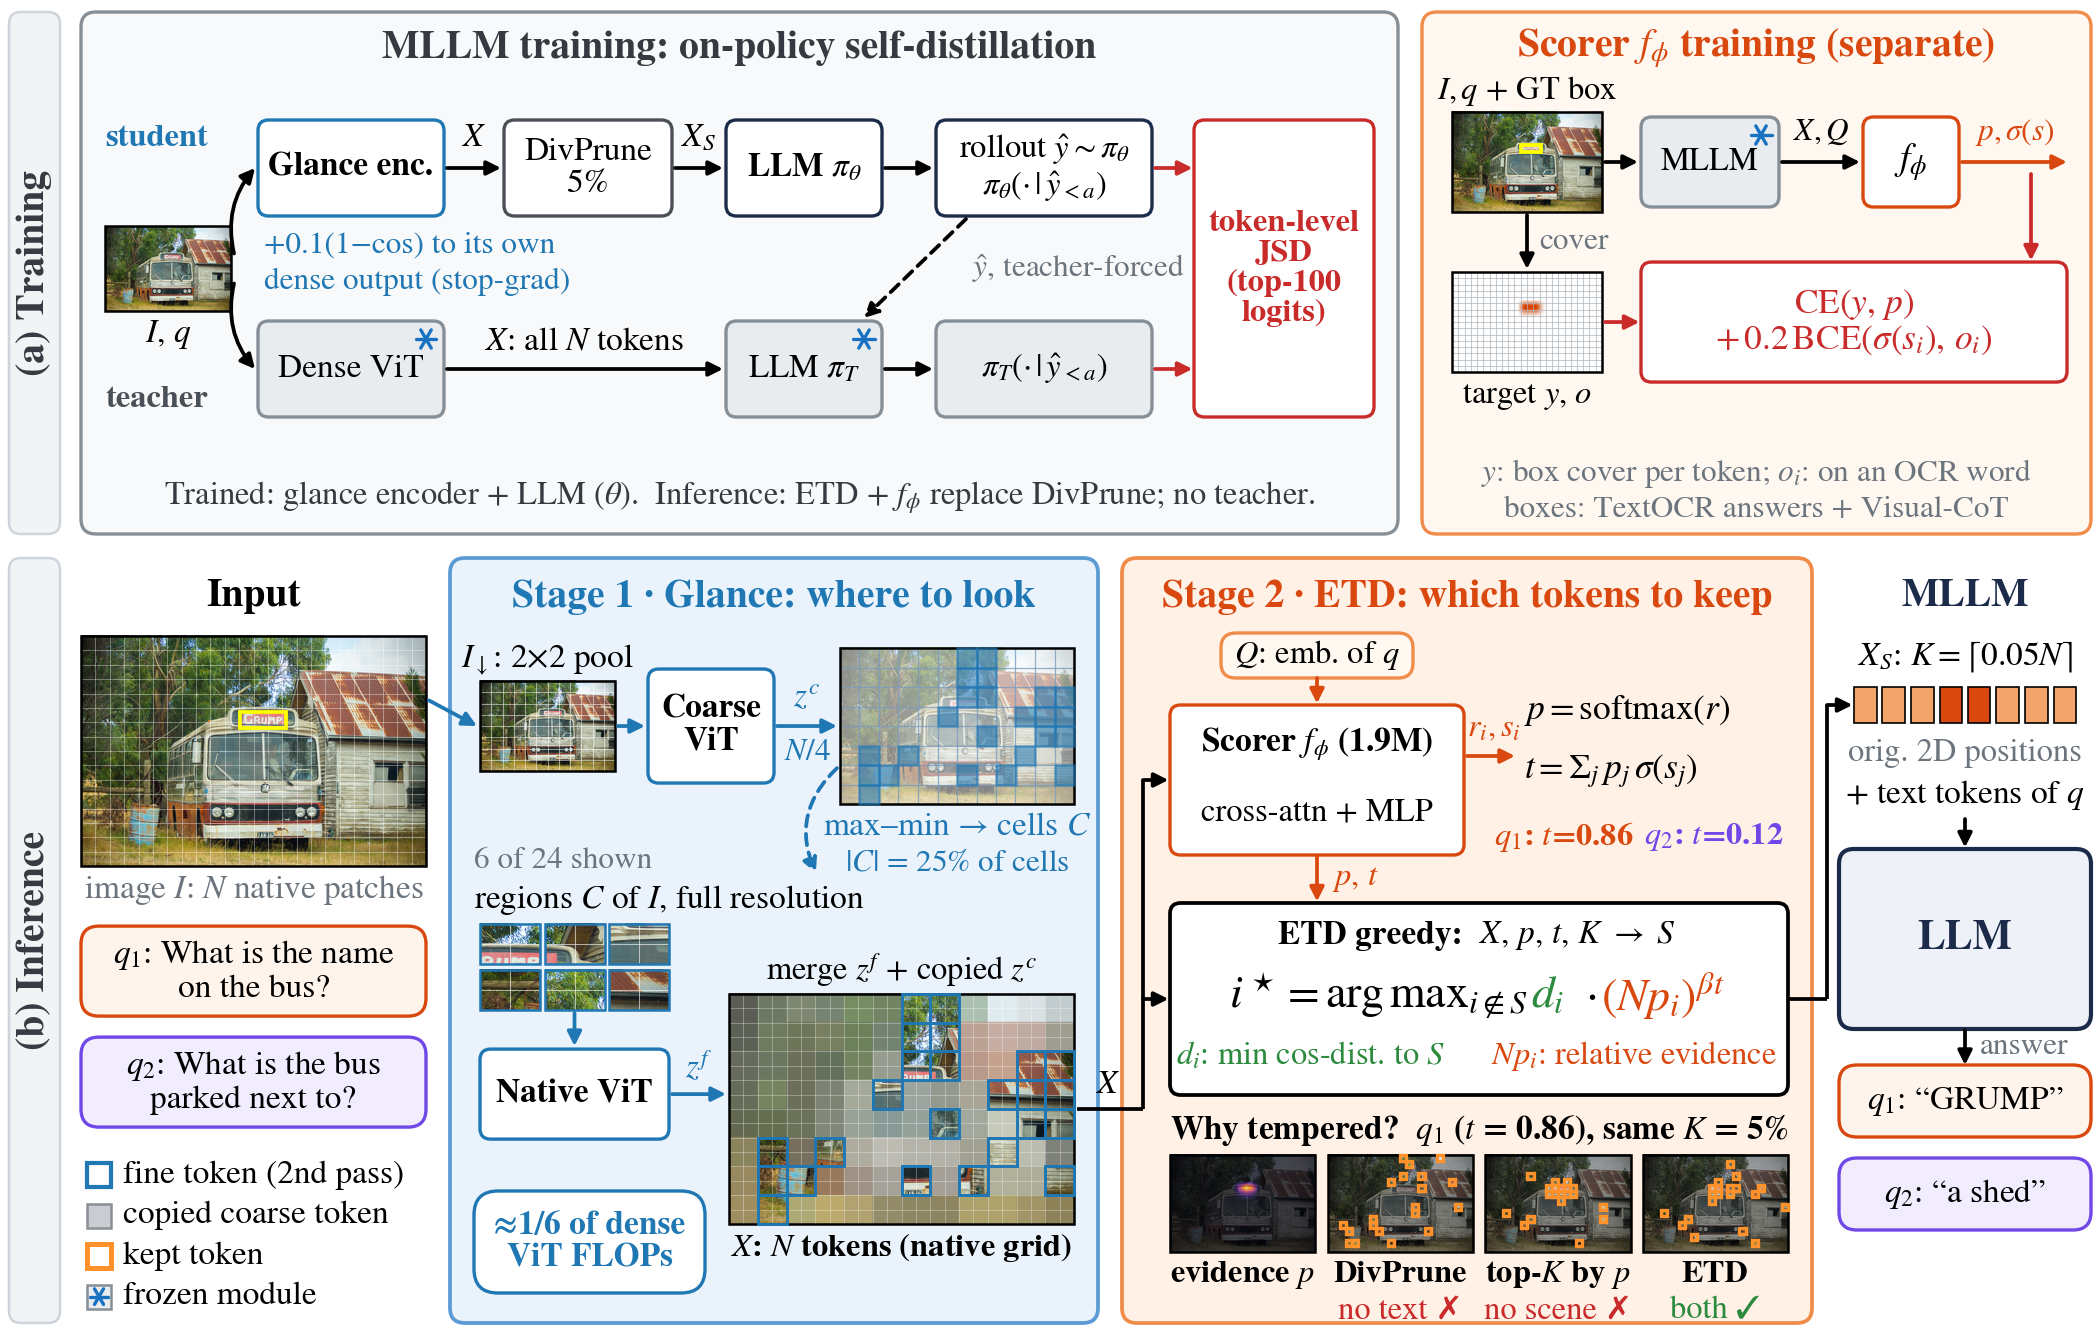
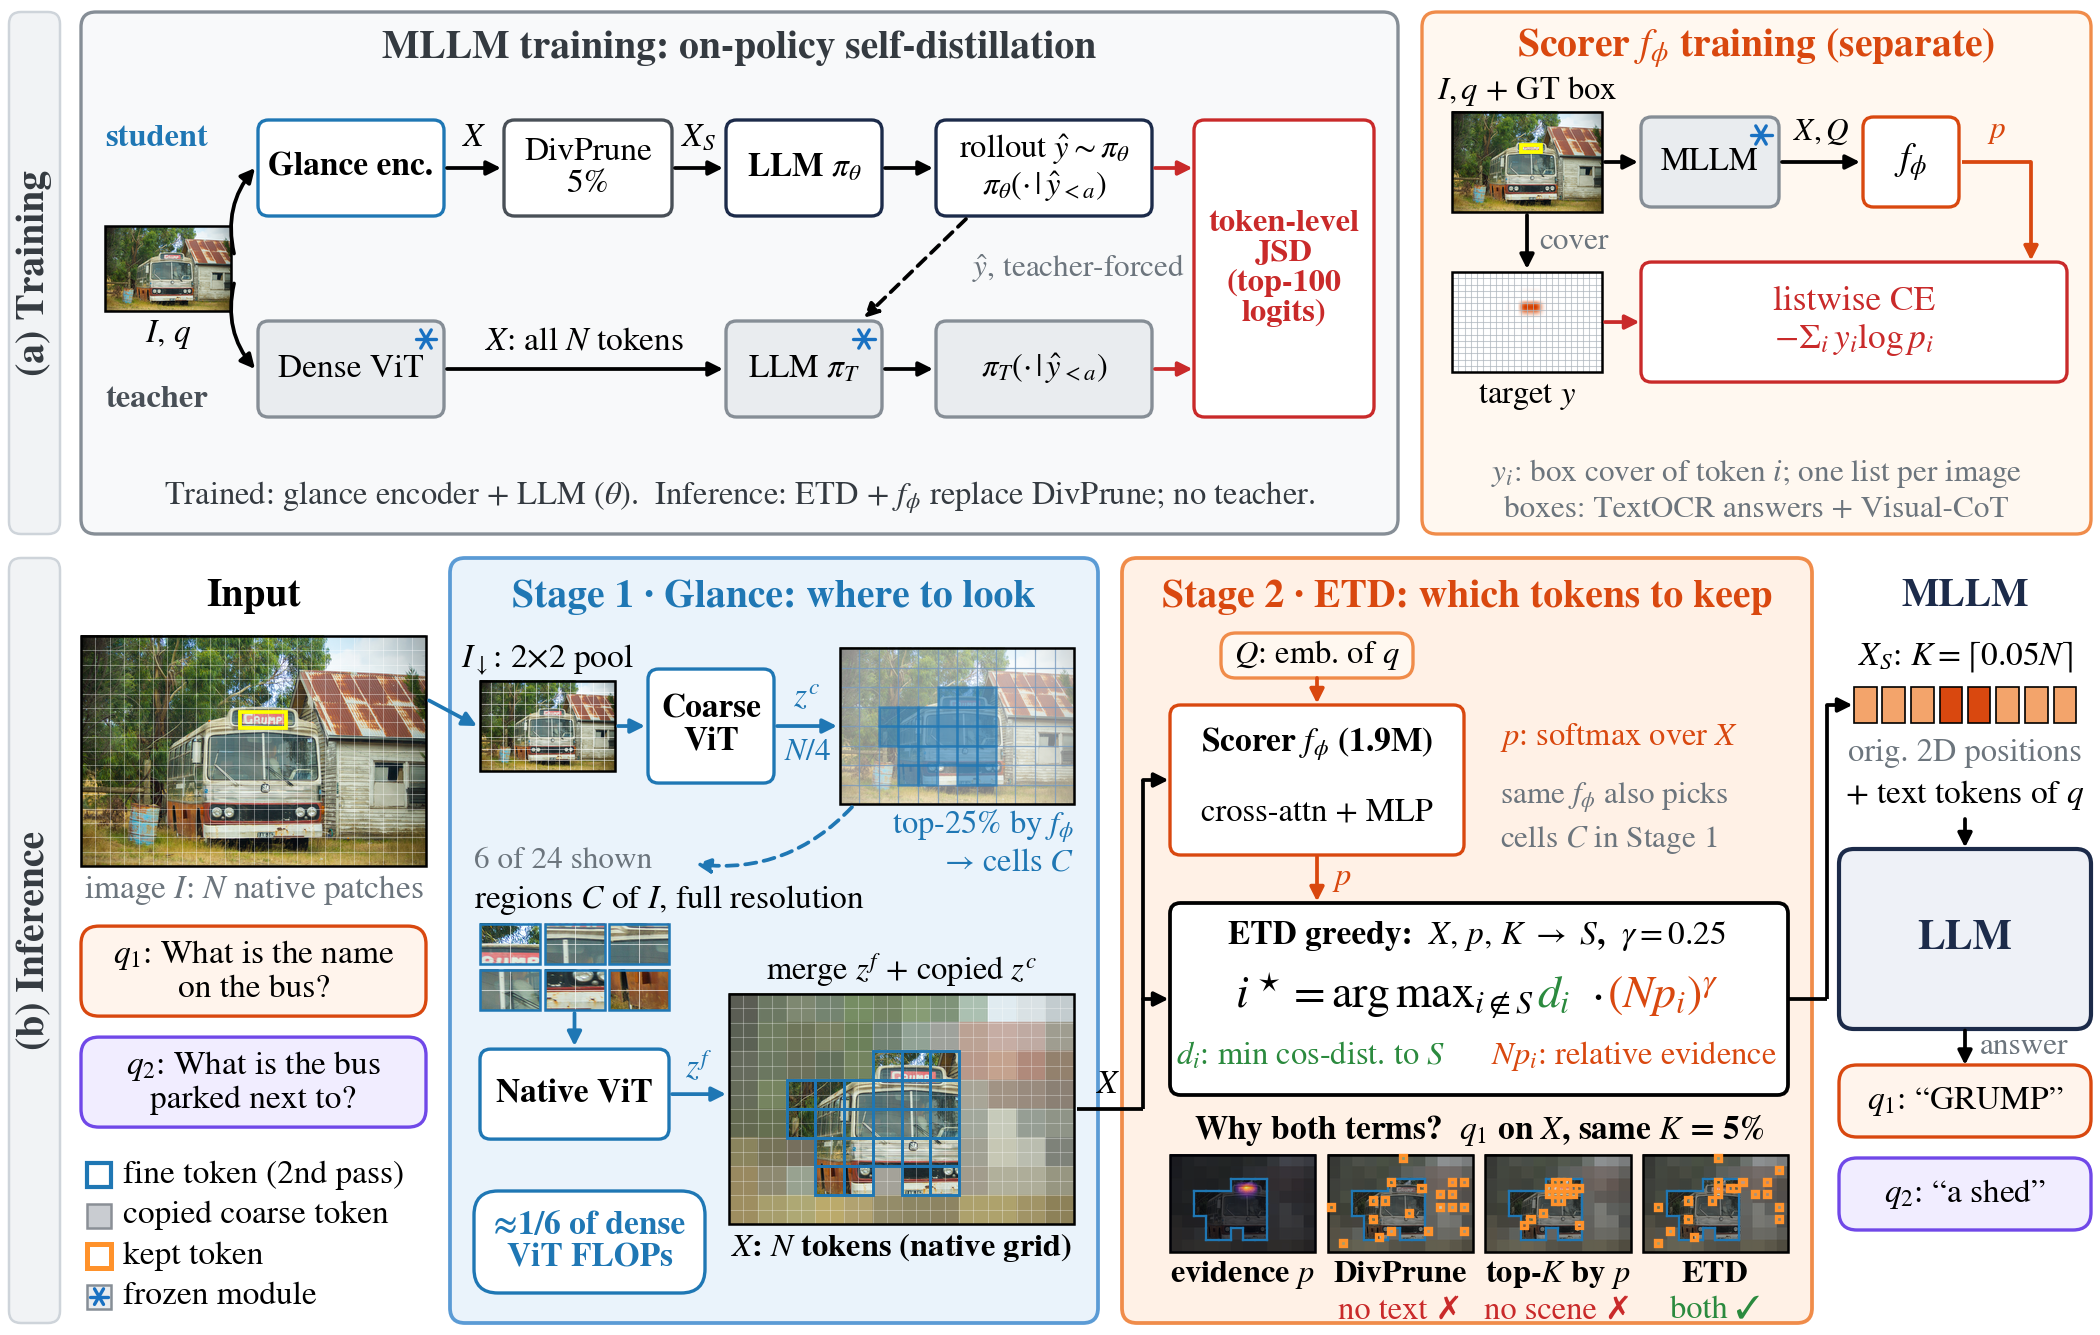
Update the Glance-ETD figure to the latest main diagram.

diff --git a/papers/glance-etd/index.html b/papers/glance-etd/index.html
@@ -26,7 +26,7 @@ page_class: "paper-project paper-project--glance"
   </header>
 
   <figure role="img" class="srp-figure srp-teaser">
-    <img src="{{ '/papers/assets/glance-etd-overview.png' | relative_url }}" alt="Glance-ETD training and inference. Training distills a glance-encoder student with DivPrune toward a frozen full-token teacher. Inference re-encodes a diverse quarter of the image at native resolution, then Evidence-Tempered Diversity keeps a strict five percent of tokens." width="2100" height="1335" loading="eager" decoding="async">
+    <img src="{{ '/papers/assets/glance-etd-overview.png' | relative_url }}" alt="Glance-ETD training and inference. Training distills a glance-encoder student that selects with DivPrune toward a frozen full-token teacher, and trains a separate box-supervised scorer. At inference the scorer keeps the top 25 percent of coarse cells for native-resolution re-encoding, then Evidence-Tempered Diversity with exponent 0.25 keeps a strict five percent of tokens." width="2100" height="1335" loading="eager" decoding="async">
     <figcaption>Glance-ETD separates two decisions: where to spend native-resolution vision compute, and which visual tokens should reach the language model.</figcaption>
   </figure>
 
